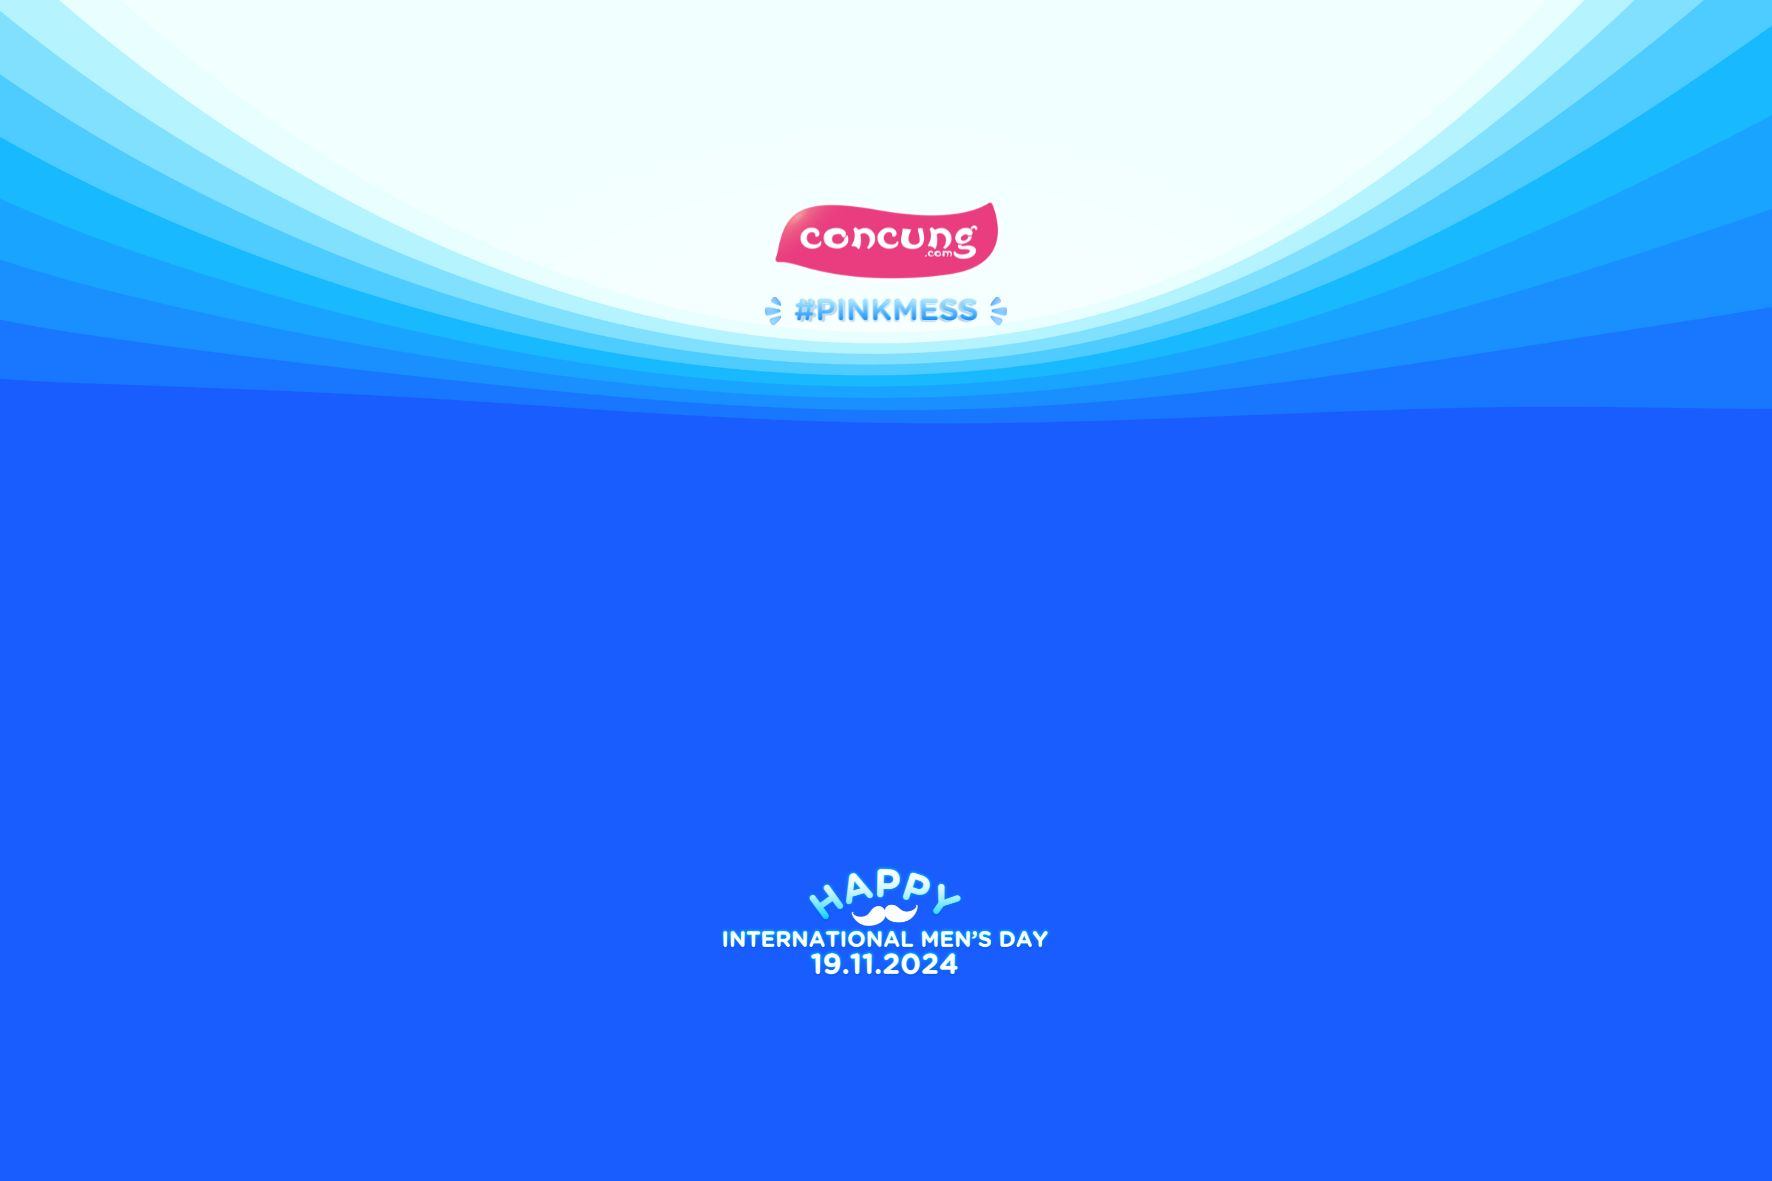
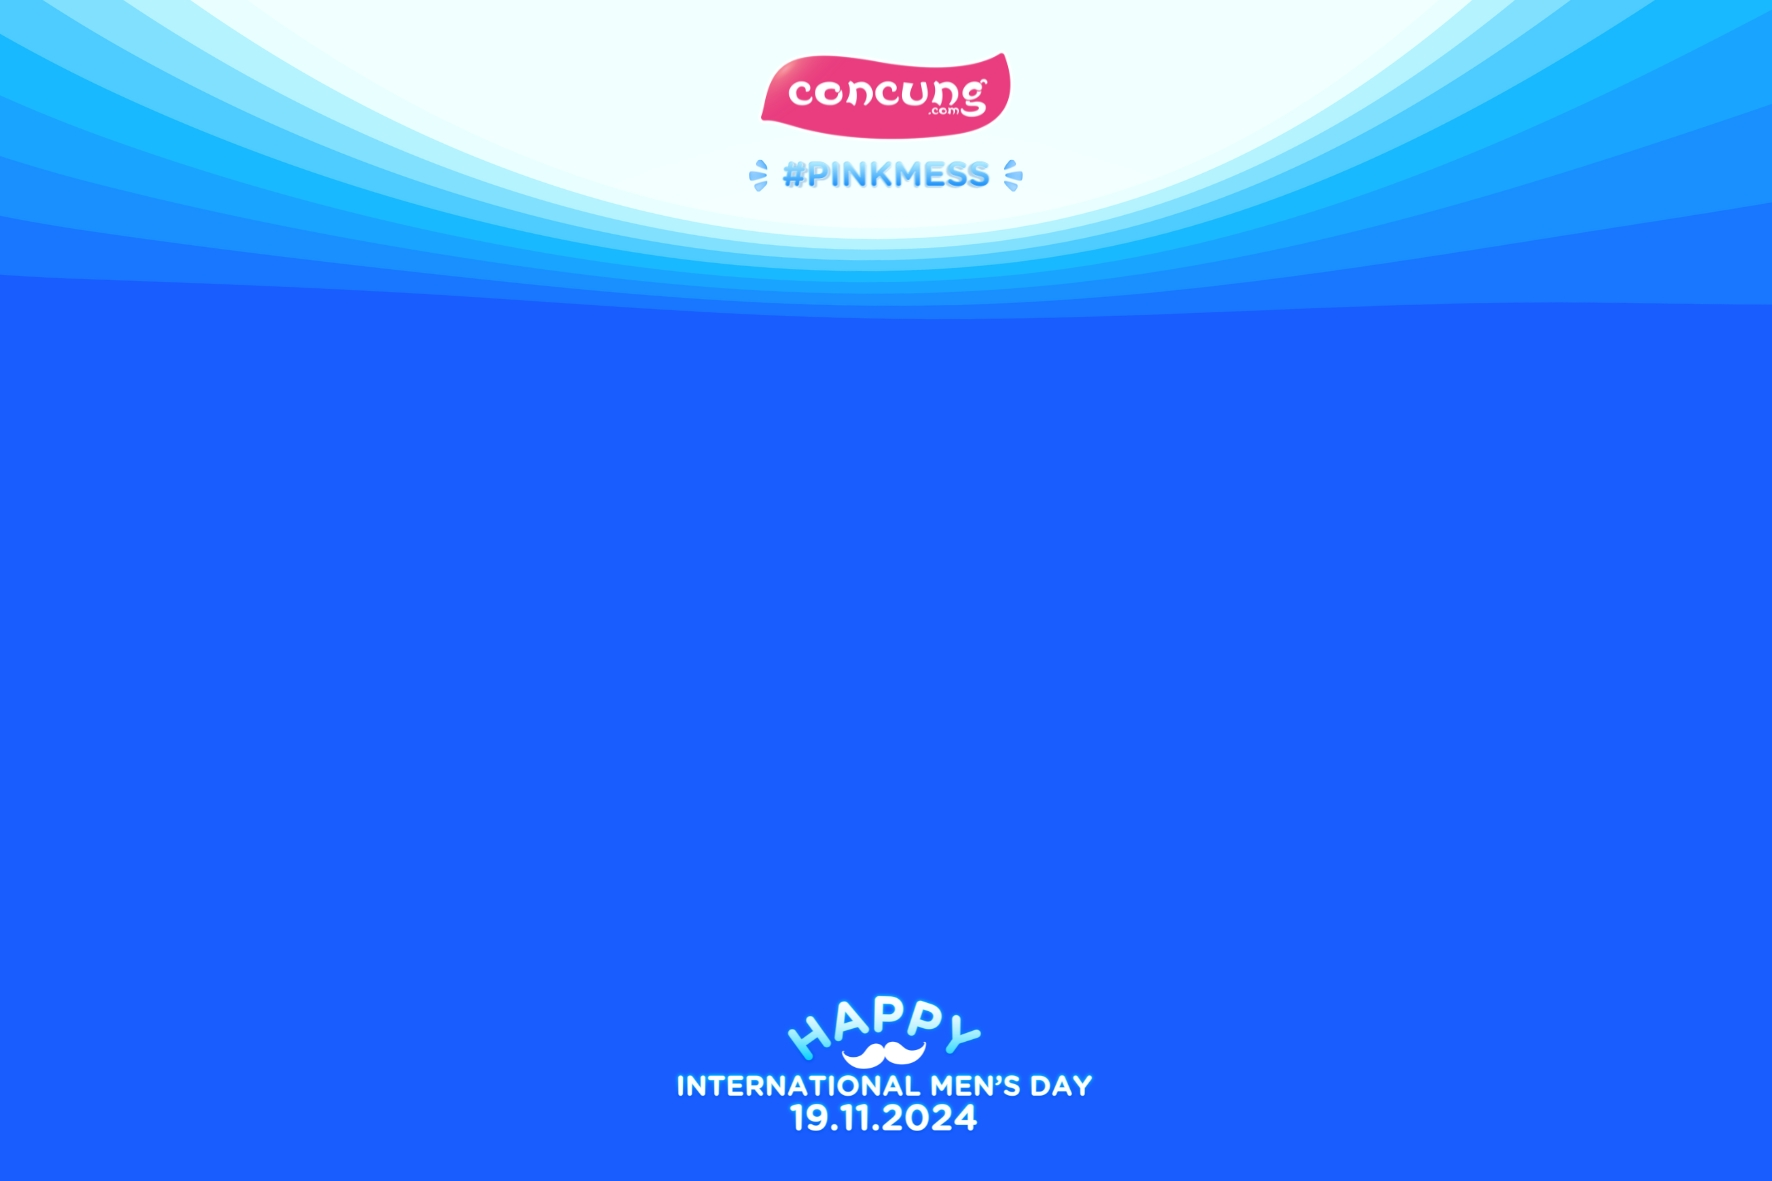
Add files via upload

Changed region(s): [[0.0, 0.0, 1.0, 0.3658], [0.3725, 0.7316, 0.6208, 0.9754]]

diff --git a/styles.css b/styles.css
@@ -1,98 +1,130 @@
 /* Thêm ảnh nền cho toàn trang */
 body {
-    display: flex;
-    justify-content: center;
-    align-items: center;
-    font-family: 'Roboto', sans-serif;
-    height: 100vh;
-    margin: 0;
-    background-image: url('bg.jpg'); /* Thay đường dẫn ảnh nền nếu cần */
-    background-size: cover;
-    background-position: center;
-    background-repeat: no-repeat;
+  display: flex;
+  justify-content: center;
+  align-items: center;
+  font-family: "Roboto", sans-serif;
+  height: 100vh;
+  margin: 0;
+  background-image: url("bg.jpg"); /* Thay đường dẫn ảnh nền nếu cần */
+  background-size: 100% 100%;
+  background-repeat: no-repeat;
+  background-position: center;
+  width: 100%;
 }
 
 /* Container chính của form */
 .container {
-    text-align: center;
-    background: rgba(255, 255, 255, 0.8); /* Thêm màu nền nhẹ cho form để dễ đọc hơn */
-    padding: 20px;
-    border-radius: 8px;
-    box-shadow: 0 4px 8px rgba(0, 0, 0, 0.2);
-    max-width: 1000px;
+  text-align: center;
+  background: rgba(
+    255,
+    255,
+    255,
+    0.8
+  ); /* Thêm màu nền nhẹ cho form để dễ đọc hơn */
+  padding: 20px;
+  border-radius: 8px;
+  box-shadow: 0 4px 8px rgba(0, 0, 0, 0.2);
+  max-width: 1000px;
+  width: 500px;
 }
 
 /* Nhóm các trường nhập liệu */
 .form-group {
-    margin-bottom: 20px; /* Tăng khoảng cách giữa các nhóm nhập liệu */
-    text-align: left;
+  margin-bottom: 20px; /* Tăng khoảng cách giữa các nhóm nhập liệu */
+  text-align: left;
 }
 
 /* Label */
 label {
-    display: block;
-    font-weight: bold;
-    margin-bottom: 5px;
-    font-size: 14px;
+  display: block;
+  font-weight: bold;
+  margin-bottom: 5px;
+  font-size: 14px;
 }
 
 /* Input và Textarea */
-textarea, input[type="text"] {
-    width: 100%;
-    padding: 10px;
-    font-size: 14px;
-    box-sizing: border-box;
-    border: 1px solid #ccc;
-    border-radius: 4px;
-    line-height: 1.5; /* Điều chỉnh khoảng cách giữa các dòng trong textarea */
+textarea,
+input[type="text"] {
+  width: 100%;
+  padding: 10px;
+  font-size: 14px;
+  box-sizing: border-box;
+  border: 1px solid #ccc;
+  border-radius: 4px;
+  line-height: 1.5; /* Điều chỉnh khoảng cách giữa các dòng trong textarea */
 }
 
 /* Nút submit */
 button {
-    padding: 10px 20px;
-    font-size: 16px;
-    cursor: pointer;
-    background-color: #007BFF;
-    color: white;
-    border: none;
-    border-radius: 4px;
-    transition: background-color 0.3s;
+  padding: 10px 20px;
+  font-size: 16px;
+  cursor: pointer;
+  background-color: #007bff;
+  color: white;
+  border: none;
+  border-radius: 4px;
+  transition: background-color 0.3s;
 }
 
 button:hover {
-    background-color: #0056b3;
+  background-color: #0056b3;
 }
 
-
 .card {
-    width: 450px;
-    height: 300px;
-    background-image: url('demo.jpg'); /* Đường dẫn hình nền */
-    background-size: cover;
-    background-position: center;
-    /*border-radius: 10px;*/
-    box-shadow: 0 4px 8px rgba(0, 0, 0, 0.2);
-    display: flex;
-    flex-direction: column;
-    justify-content: center;
-    align-items: center;
-    margin-bottom: 20px;
-    color: rgb(255, 0, 157);
-    font-family: 'Roboto', sans-serif;
-    font-size: 16px;
-    text-align: center;
-    padding: 10px;
+  width: 450px;
+  height: 300px;
+  background-image: url("demo.jpg"); /* Đường dẫn hình nền */
+  background-size: cover;
+  background-position: center;
+  /*border-radius: 10px;*/
+  box-shadow: 0 4px 8px rgba(0, 0, 0, 0.2);
+  display: flex;
+  flex-direction: column;
+  justify-content: center;
+  align-items: flex-start;
+  margin-bottom: 20px;
+  color: rgb(255, 0, 157);
+  font-family: "Roboto", sans-serif;
+  font-size: 16px;
+  text-align: left;
+  padding: 10px;
 }
 
 #card-recipient {
-    font-size: 10px;
-    font-weight: bold;
-    margin-bottom: -15px;
+  font-size: 18px;
+  font-weight: bold;
+  margin-bottom: -15px;
+  font-family: "iCiel";
+  text-align: left;
+  color: #195dfe;
 }
 
 #card-message {
-    font-size: 20px;
-    margin-bottom: 10px;
-    margin-left: 30px;
-    margin-right: 30px;
+  font-size: 20px;
+  margin-bottom: 10px;
+  /* margin-left: 30px; */
+  margin-right: 30px;
+  font-family: "UVN";
+  text-align: left;
+}
+
+@font-face {
+  font-family: "iCiel"; /* Name your font family */
+  src: url("assets/fonts/iCiel\ Pacifico.ttf"); /* Locate the .ttf file within your directory*/
+}
+
+@font-face {
+  font-family: "UVN"; /* Name your font family */
+  src: url("assets/fonts/UVN\ MVC10.ttf"); /* Locate the .ttf file within your directory*/
+}
+
+@media screen and (max-width: 768px) {
+  body {
+    background-size: cover;
+  }
+
+  .container {
+    margin: 0 20px;
+  }
 }

diff --git a/display.html b/display.html
@@ -1,42 +1,44 @@
 <!DOCTYPE html>
 <html lang="vi">
-<head>
-    <meta charset="UTF-8">
-    <meta name="viewport" content="width=device-width, initial-scale=1.0">
+  <head>
+    <meta charset="UTF-8" />
+    <meta name="viewport" content="width=device-width, initial-scale=1.0" />
     <title>Thông điệp của bạn</title>
-    <link rel="stylesheet" href="styles.css">
-</head>
-<body>
+    <link rel="stylesheet" href="styles.css" />
+  </head>
+  <body>
     <div class="container">
-        <div class="card" id="card">
-            <p id="card-recipient"></p>
-            <p id="card-message"></p>
+      <div class="card" id="card">
+        <div style="padding: 0px 20px">
+          <p id="card-recipient"></p>
+          <p id="card-message"></p>
         </div>
-        <button id="download-btn">Tải thiệp về (.png)</button>
+      </div>
+      <button id="download-btn">Tải thiệp về (.png)</button>
     </div>
 
     <script>
-        // Lấy thông điệp và các thông tin khác từ URL
-        const urlParams = new URLSearchParams(window.location.search);
-        const message = urlParams.get('message');
-        const recipient = urlParams.get('recipient');
-        const employeeId = urlParams.get('employeeId');
-        const department = urlParams.get('department');
+      // Lấy thông điệp và các thông tin khác từ URL
+      const urlParams = new URLSearchParams(window.location.search);
+      const message = urlParams.get("message");
+      const recipient = urlParams.get("recipient");
+      const employeeId = urlParams.get("employeeId");
+      const department = urlParams.get("department");
 
-        // Hiển thị thông tin trên thẻ
-        document.getElementById('card-recipient').innerText = `Gửi ${recipient}`;
-        document.getElementById('card-message').innerText = message;
+      // Hiển thị thông tin trên thẻ
+      document.getElementById("card-recipient").innerText = `Gửi ${recipient}`;
+      document.getElementById("card-message").innerText = message;
 
-        // Tải ảnh với Canvas
-        document.getElementById('download-btn').onclick = function () {
-            html2canvas(document.getElementById('card')).then(function(canvas) {
-                let link = document.createElement('a');
-                link.download = 'card.png';
-                link.href = canvas.toDataURL();
-                link.click();
-            });
-        };
+      // Tải ảnh với Canvas
+      document.getElementById("download-btn").onclick = function () {
+        html2canvas(document.getElementById("card")).then(function (canvas) {
+          let link = document.createElement("a");
+          link.download = "card.png";
+          link.href = canvas.toDataURL();
+          link.click();
+        });
+      };
     </script>
     <script src="https://cdnjs.cloudflare.com/ajax/libs/html2canvas/1.4.1/html2canvas.min.js"></script>
-</body>
+  </body>
 </html>

diff --git a/index.html b/index.html
@@ -12,16 +12,16 @@
         <form action="display.html" method="get">
             <div class="form-group">
                 <label for="message">Bạn muốn gửi thông điệp*:</label>
-                <textarea id="message" name="message" maxlength="200" required></textarea>
+                <textarea id="message" name="message" maxlength="200" required placeholder="Tối đa 200 lý tự" ></textarea>
             <div>
-            (*)Dưới 200 characters
 
             <div class="form-group">
-                <label for="recipient">Đến**:</label>
-                <input type="text" id="recipient" name="recipient" required>
+                <label for="recipient">Đến*:</label>
+                <input type="text" id="recipient" name="recipient" required placeholder="Có thể là tên riêng, biệt danh, mật danh, hay tên cúng cơm dễ thương cute">
             </div>
-            (**)Aka.,tên riêng, biệt danh, etc.
-            <button type="submit">Xem thiệp của bạn</button>
+            <div style="text-align: center;padding-top: 15px;">
+                <button type="submit">Xem thiệp của bạn</button>
+            </div>
         </form>
     </div>
 </body>
